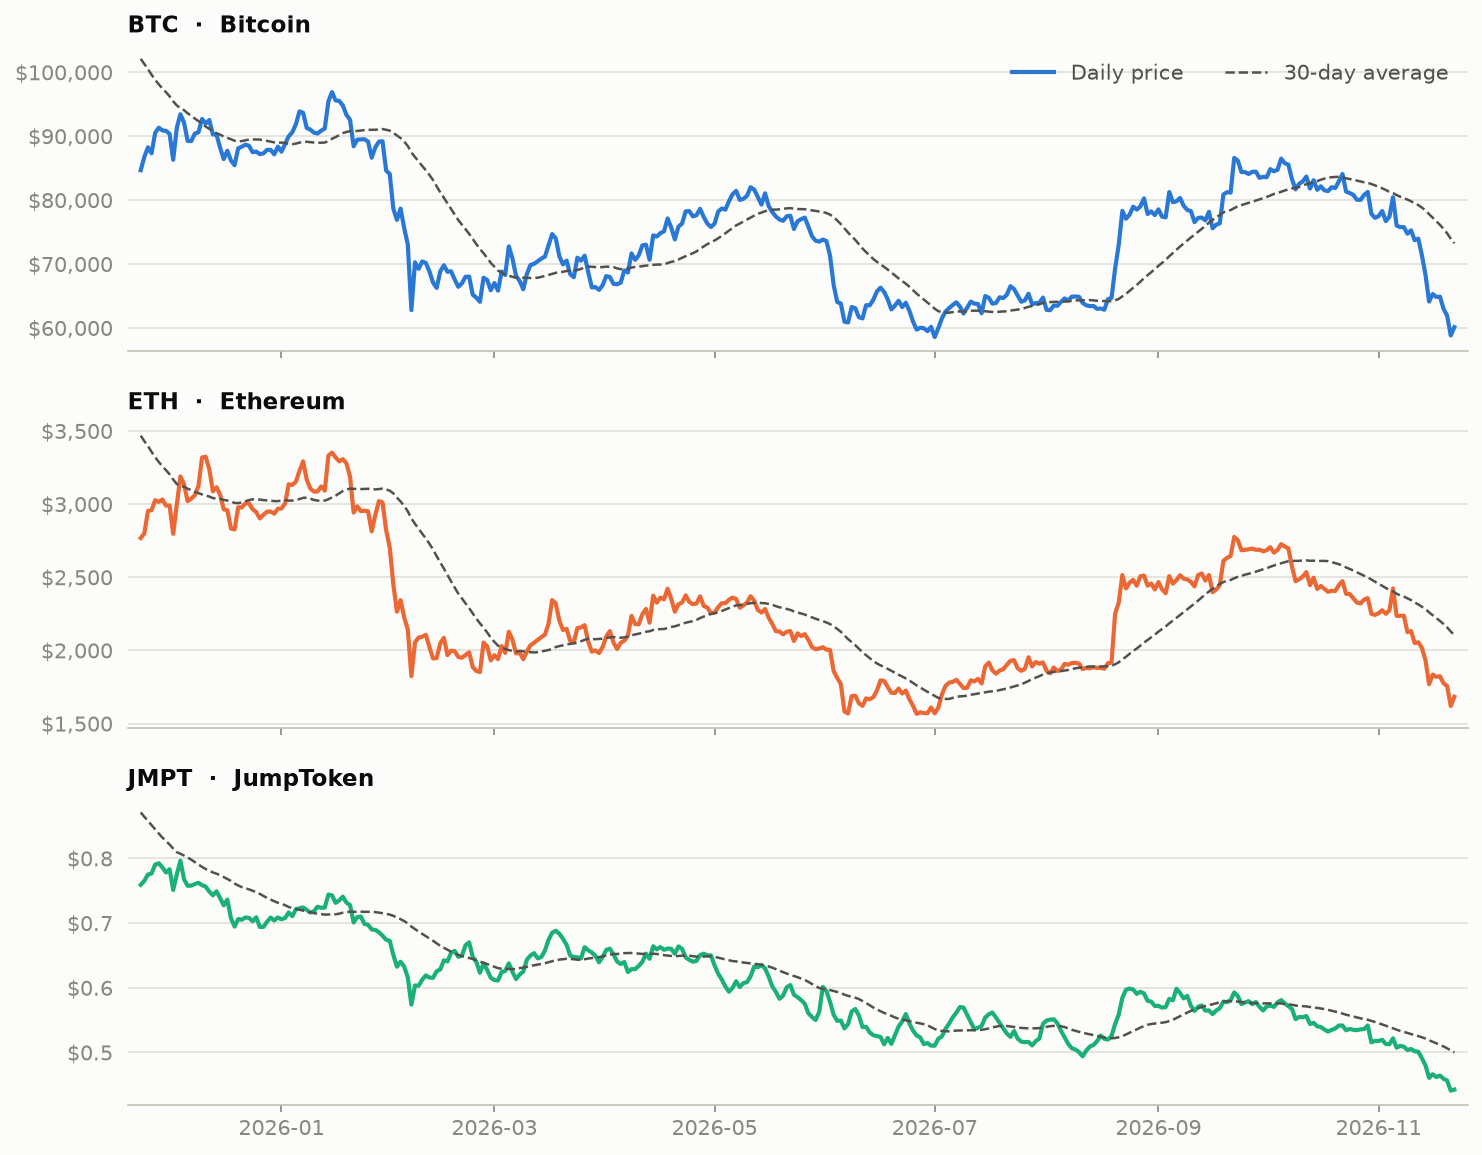
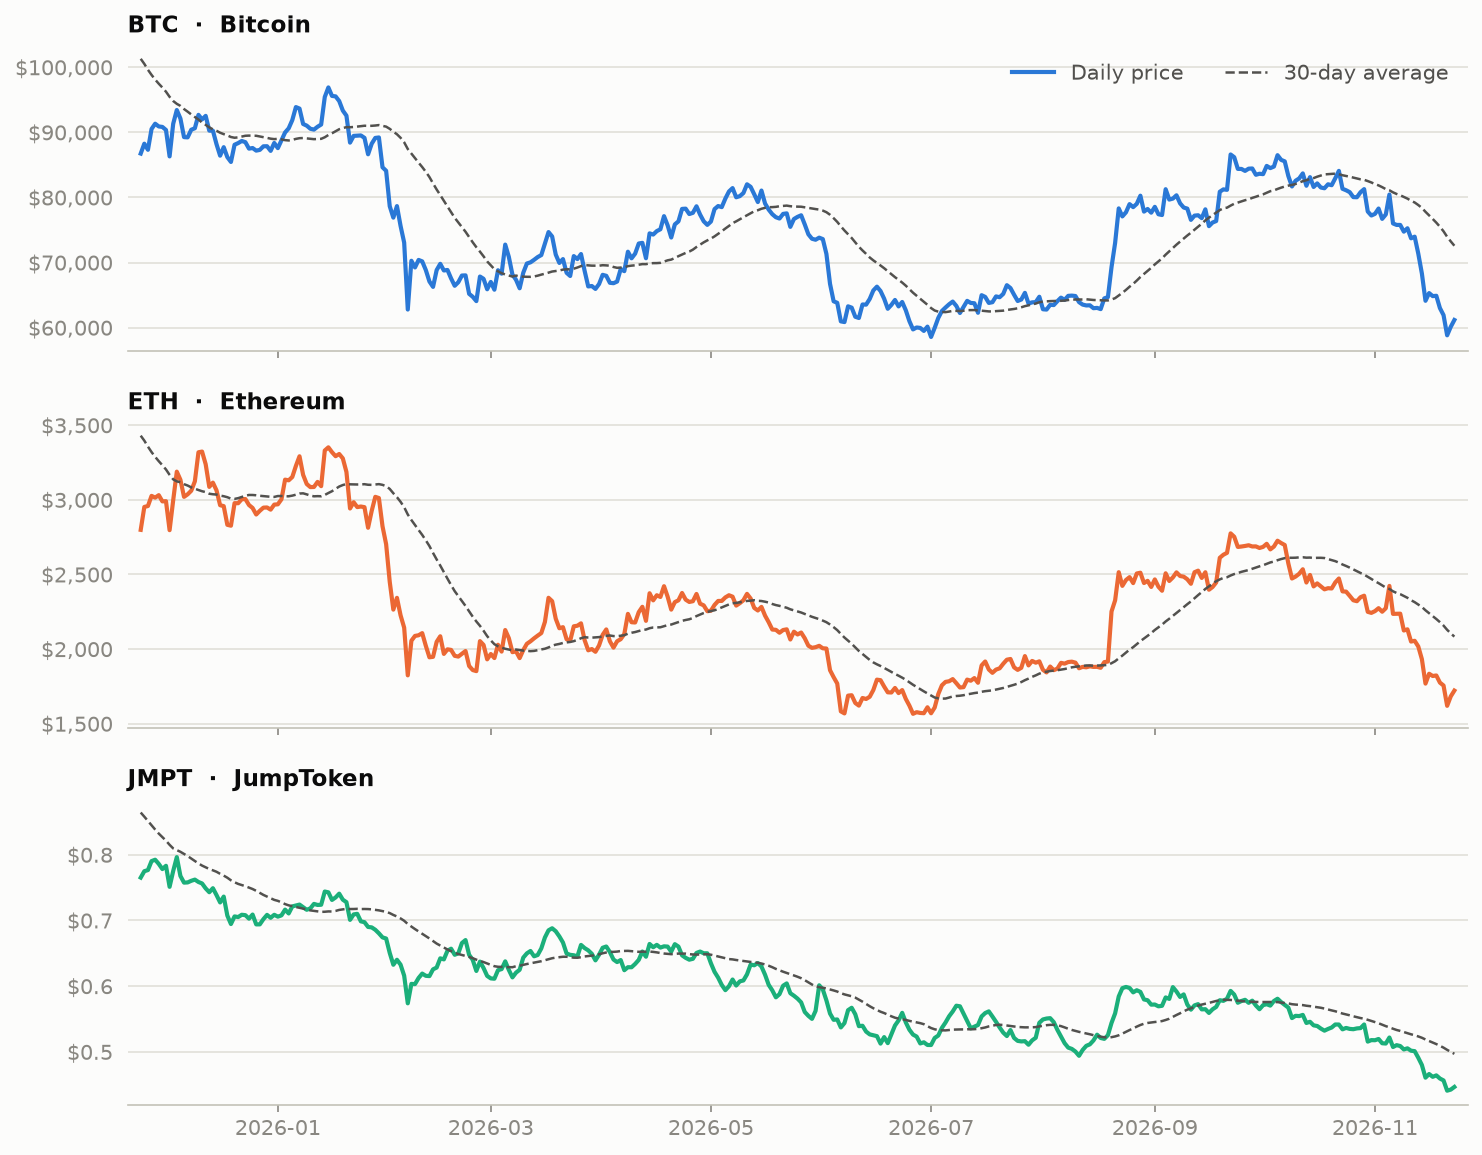
data: market update 2026-11-23

diff --git a/README.md b/README.md
@@ -9,13 +9,13 @@ The project compares two of the largest cryptocurrencies with a small-cap token:
 ## Latest stats
 
 <!-- STATS:START -->
-_Snapshot as of **2026-11-22 00:00 UTC**. Updated automatically every day._
+_Snapshot as of **2026-11-23 00:00 UTC**. Updated automatically every day._
 
 | Coin | Price | 1 day | 7 days | 30 days | 1 year | Volatility (30d) | Market cap |
 |:--|--:|--:|--:|--:|--:|--:|--:|
-| **BTC** Bitcoin | $60,121 | ▲ +2.2% | ▼ -6.2% | ▼ -26.1% | ▼ -29.3% | 46% | $1.21T |
-| **ETH** Ethereum | $1,683 | ▲ +3.9% | ▼ -4.8% | ▼ -29.5% | ▼ -39.1% | 65% | $205.71B |
-| **JMPT** JumpToken | $0.4425 | ▲ +0.4% | ▼ -4.0% | ▼ -17.2% | ▼ -42.0% | 30% | $6.53M |
+| **BTC** Bitcoin | $61,172 | ▲ +1.7% | ▼ -6.3% | ▼ -24.6% | ▼ -27.8% | 47% | $1.23T |
+| **ETH** Ethereum | $1,722 | ▲ +2.3% | ▼ -6.2% | ▼ -27.8% | ▼ -37.8% | 66% | $210.45B |
+| **JMPT** JumpToken | $0.4466 | ▲ +0.9% | ▼ -4.2% | ▼ -16.7% | ▼ -41.2% | 30% | $6.59M |
 <!-- STATS:END -->
 
 ## Charts
